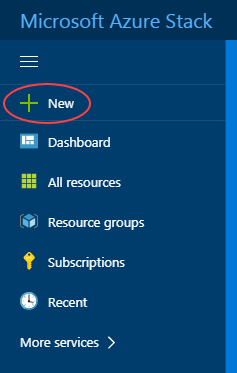
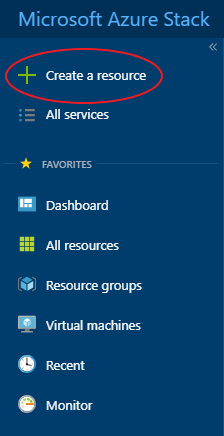
New Azure Doc - Create S2S VPN (#154)
* New Azure Doc - How to create a S2S VPN

* Added Images

* Capitalisation change

Capitalisation change

* Fixed spelling error

* Image fixes

* Updated as per changes

* Changes made as requested

* Move images inline with bullet points

diff --git a/articles/azure/azs-how-create-S2S-VPN.md b/articles/azure/azs-how-create-S2S-VPN.md
@@ -1,0 +1,221 @@
+---
+title: How to create a Site-to-Site connection in Azure Stack | UKCloud Ltd
+description: Create a S2S VPN gateway connection from an on-premises network to UKCLoud for Microsoft Azure 
+services: azure-stack
+author: Bailey Lawson
+toc_rootlink: Users
+toc_sub1: How To
+toc_sub2:
+toc_sub3:
+toc_sub4:
+toc_title: Create a Site-to-Site connection in Azure Stack
+toc_fullpath: Users/How To/azs-how-create-S2S-VPN.md
+toc_mdlink: azs-how-create-S2S-VPN.md
+---
+
+# How to create a Site-to-Site connection in Azure Stack
+
+## Overview
+
+This guide shows you how to use the UKCloud Azure Stack portal to create a Site-to-Site VPN from your on-premises network to your UKCloud for Microsoft Azure environment. 
+
+### Intended audience
+
+To complete the steps in this guide, you must have appropriate access to a subscription in the UKCloud Azure Stack portal.
+
+## Create a virtual network
+
+First, you'll need to create a virtual network. This virtual network will be able to send and receive traffic through the virtual network gateway. You cannot associate a virtual network with more than one gateway.
+
+1. Log in to the UKCloud Azure Stack portal.
+
+   For more detailed instructions, see the [*Getting Started Guide for UKCloud for Microsoft Azure*](azs-gs.md).
+
+2. In the favourites panel, select **Create a resource**.
+
+   ![Create a resource option in favourites panel](images/azsp_newmenu.png)
+
+3. In the **New** blade, select **Networking**.
+
+   ![Networking option in New blade](images/azs-browser-new-networking.png)
+
+4. In the **Featured** section, select **Virtual network**.
+
+   ![Create new networking resource](images/azs-browser-networking-create.png)
+
+5. In the **Create virtual network** blade, enter the following information:
+
+   - **Name** - The name of the virtual network.
+
+   - **Address Space** - The virtual network's address range in CIDR notation.
+
+   - **Subscription** - This is your UKCloud for Microsoft Azure subscription.
+
+   - **Resource Group** - Select an existing resource group, or create a new one by typing a name for your new resource group.
+
+   - **Location** - This will be `frn00006`, which is the location of the Azure Stack.
+
+   - **Subnet Name** - The name of the first subnet within the virtual network.
+
+   - **Address Range** - The subnet's address range in CIDR notation (for example, 192.168.1.0). It must be contained by the address space of the virtual network. The address range of a subnet which is in use can't be edited.
+
+     ![Create new virtual network](images/azs-browser-create-virtual-network.png)
+
+6. Click **Create**.
+
+7. You can monitor the progress of your virtual network's deployment by clicking the **Notifications** icon.
+
+   ![!Notification showing VM deployment in progress](images/azsp_createvm_progress.png)
+
+8. Click the deployment notification for the deployment to view details of the deployment of the virtual network.
+
+9. When the deployment is finished, the notification will change to **Deployment succeeded**.
+
+10. After your virtual network has deployed, you can view it by clicking **All services** in the favourites panel, then selecting **Virtual networks** under the networking section.
+
+11. Select your virtual network from the list.
+
+12. In the blade for your virtual network, you can view and monitor the virtual network, change its settings and perform diagnostics and troubleshooting.
+
+## Create the gateway subnet
+
+To associate a virtual network with a gateway, it must first contain a valid gateway subnet. The following steps outline how to create a gateway subnet.
+
+1. In the portal, navigate to the virtual network that you created in the previous section.
+
+2. In the **Settings** section of the virtual network blade, select **Subnets**.
+
+3. On the **Subnets** page, click the **+ Gateway Subnet** button.
+
+4. Fill in the **Address range** and add a route table if required, then click **OK**. The subnet should now have appeared.
+
+## Create the VPN gateway
+
+1. In the favourites panel, select **Create a resource**.
+
+   ![Create a resource option in favourites panel](images/azsp_newmenu.png)
+
+2. In the **New** blade, select **Networking**.
+
+   ![Networking option in New blade](images/azs-browser-new-networking.png)
+
+3. In the **Featured** section, select **Virtual network gateway**.
+
+   ![Create new networking resource](images/azs-browser-networking-create.png)
+
+4. In the **Create virtual network gateway** blade, enter the following information:
+
+   - **Name** - The name of the virtual network gateway.
+
+   - **SKU** - Route-based VPN gateway types are offered in three SKUs: Basic, Standard, and High performance. You must select Standard or High performance if you are creating the network to coexist with an ExpressRoute gateway. You must select High performance SKU to enable active-active mode. You can find more information about SKUs here: [Azure Stack SKUs](https://docs.microsoft.com/en-gb/azure/vpn-gateway/vpn-gateway-about-skus-legacy).
+
+   - **Virtual Network** - This is the virtual network that you created earlier.
+
+   - **Public IP address** - The public IP address to assign to this virtual network gateway. Only dynamic public IP addresses are supported. To create a new public IP address:
+      - Click **Public IP address** on the **Create virtual network gateway** blade.
+      - Select **Create new** on the **Choose public IP address** blade.
+      - Enter a name for the public IP address and click **OK**.
+
+   - **Configure BGP ASN** - BGP is the standard routing protocol commonly used on the internet to exchange routing information between two or more networks. BGP enables the Azure VPN Gateways and your on-premises VPN devices, called BGP peers or neighbours, to exchange "routes" that will inform both gateways on the availability and reachability for those prefixes to go through the gateways or routers involved. You should also make sure your on-premises VPN devices support BGP before you enable this feature.
+
+   - **Subscription** - This is your UKCloud for Microsoft Azure subscription.
+
+   - **Resource Group** - The virtual network gateway will be created in the same resource group as the chosen virtual network.
+
+   - **Location** - This will be `frn00006`, which is the location of the Azure Stack.
+
+     ![Create new virtual network gateway](images/azs-browser-create-Vnetwork-gateway.png)
+
+5. Click **Create**.
+
+6. You can monitor the progress of your virtual network's deployment by clicking the **Notifications** icon.
+
+   ![!Notification showing VM deployment in progress](images/azsp_createvm_progress.png)
+
+## Create the local network gateway
+
+The local network gateway refers to your on-premises network. The following steps outline how to create a local network gateway:
+
+1. In the favourites panel, select **Create a resource**.
+
+   ![Create a resource option in favourites panel](images/azsp_newmenu.png)
+
+2. In the **New** blade, select **Networking**.
+
+   ![Networking option in New blade](images/azs-browser-new-networking.png)
+
+3. In the **Featured** section, select **Local network gateway**.
+
+   ![Create new networking resource](images/azs-browser-networking-create.png)
+
+4. In the **Create local network gateway** blade, enter the following information:
+
+   - **Name** - The name of the local network gateway.
+
+   - **IP address** - This is the public IP address of the VPN device that you want Azure to connect to. Specify a valid public IP address.
+
+   - **Address space** - One or more IP address ranges (in CIDR notation) that define your local network's address space. For example: 192.168.0.0/16. If you plan to use this local network gateway in a BGP-enabled connection, then the minimum prefix you need to declare is the host address of your BGP Peer IP address on your VPN device.
+
+   - **Configure BGP settings** - Use only when configuring BGP.
+
+   - **Subscription** - This is your UKCloud for Microsoft Azure subscription.
+
+   - **Resource group** - Select an existing resource group, or create a new one by typing a name for your new resource group.
+
+   - **Location** - This will be `frn00006`, which is the location of the Azure Stack.
+
+     ![Create new local network gateway](images/azs-browser-create-Lnetwork-gateway.png)
+
+5. Click **Create**.
+
+## Create the VPN connection
+
+Create the Site-to-Site VPN connection between your virtual network gateway and your on-premises VPN device:
+
+1. Navigate to your virtual network gateway by clicking **All services** in the favourites panel, then selecting **Virtual network gateways** under the networking section.
+
+2. Select your virtual network gateway from the list.
+
+3. In the blade for your virtual network gateway, select **Connections** under the **Settings** section.
+
+4. Click the **+Add** button.
+
+5. In the **Add connection** blade, enter the following information:
+
+   - **Name** - The name of the connection.
+
+   - **Connection type** - Select **Site-to-site (IPSec)**.
+
+   - **Virtual network gateway** - Select the virtual network gateway you created earlier.
+
+   - **Local network gateway**- Select the local network gateway you created earlier.
+
+   - **Shared Key** - A mixture of letters and numbers, used to establish encryption for the connection. You must use the same shared key in both the virtual network and local network gateways. If your gateway device doesn't provide one, you can make one up here and provide it to your device.
+
+   - **Subscription** - This is your UKCloud for Microsoft Azure subscription.
+
+   - **Resource Group** - When adding a connection for an existing peer, the resource group can't be changed.
+
+   - **Location** - This will be `frn00006`, which is the location of the Azure Stack.
+
+     ![Add new connection](images/azs-browser-add-connection.png)
+
+6. Click **OK**.
+
+## Verify the VPN connection
+
+After configuring the VPN device on your local network, you can verify the VPN connection with the following steps:
+
+1. Navigate to your virtual network gateway by clicking **All services** in the favourites panel, then selecting **Virtual network gateways** under the networking section.
+
+2. Select your virtual network gateway from the list.
+
+3. In the blade for your virtual network gateway, select **Connections** under the **Settings** section.
+
+4. Select your connection from the list.
+
+5. In the blade that has opened, you can view more information about your connection. The connection status will be **Succeeded** or **Connected** if there is a successful connection.
+
+## Feedback
+
+If you have any comments on this document or any other aspect of your UKCloud experience, send them to <products@ukcloud.com>.
